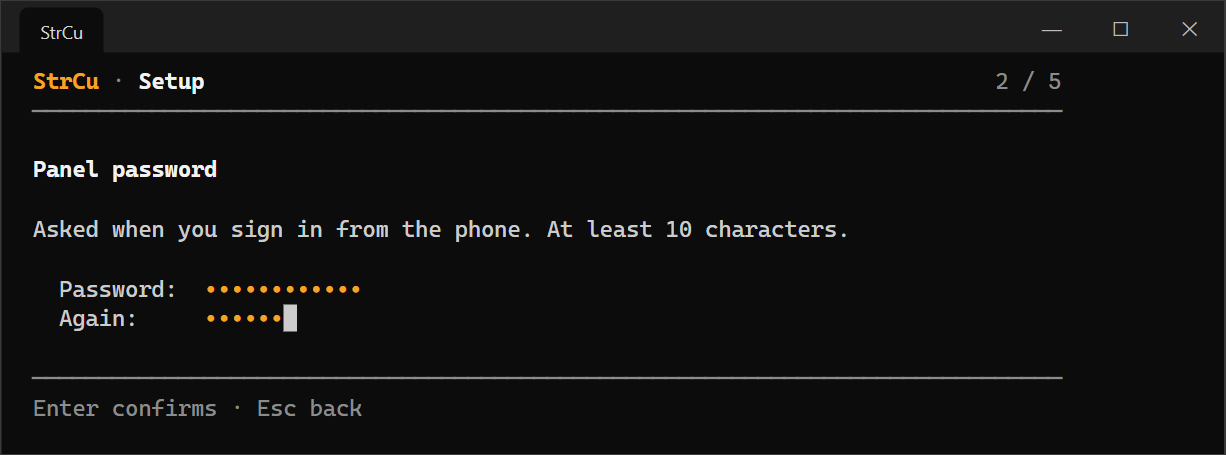
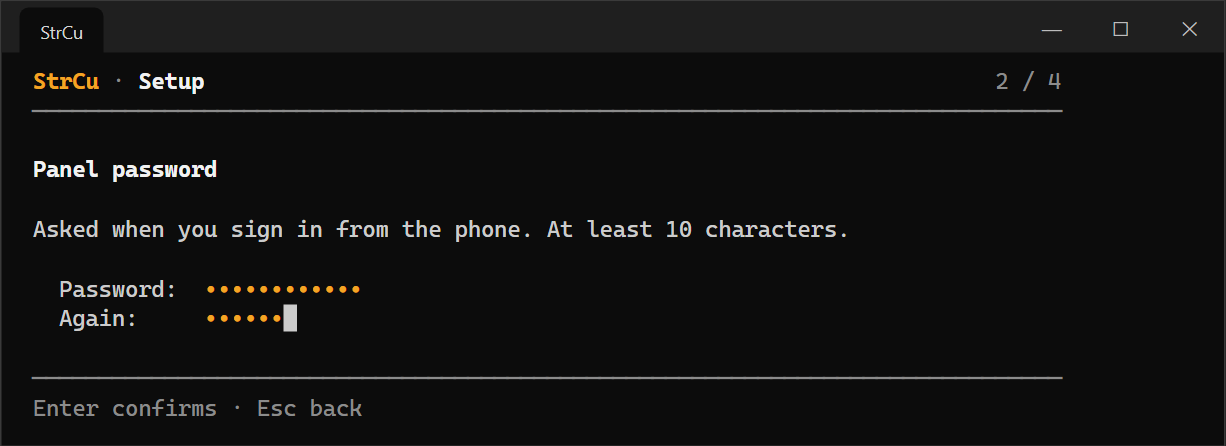
The README is about 2.0
Everything it said about what StrCu cannot do was written for a program running as a person, and the week's
measurements took three of those four away: the lock screen, the sign-in screen, the approval prompt and
administrator windows are all in reach now, so the list says what is really left - the computer has to be
running, Ctrl+Alt+Del stays Windows' own, a macro is still not started by a timer on a locked computer, and
what Windows hides from a screenshot is hidden from StrCu too.

The rest follows the same move: installing asks for administrator approval once and sets up a service, the
settings live in a folder only administrators may write to, the window is a window onto a StrCu that keeps
running without it, the setup is four steps because starting with Windows is no longer a question, and a
browser on this computer signs in like any other. The three parts StrCu runs itself are named for anyone
reading the command list, and the layout section points at them.

The two terminal pictures were taken again, which is also why the version is 2.0.0 now: a picture of the
window is a picture of its version line.

Claude-Session: https://claude.ai/code/session_018tcGSwZKhmtEGX6KRzm28q

diff --git a/src/macros/mod.rs b/src/macros/mod.rs
@@ -1,7 +1,7 @@
 //! Macros: steps that click, type and open things on this computer, started from the panel or on a schedule.
 //!
 //! They run inside StrCu, so a scheduled one runs while the phone is off; the panel only edits, starts and
-//! watches them. Kept in %LOCALAPPDATA%\strcu\macros.json.
+//! watches them. Kept in %ProgramData%\StrCu\macros.json.
 
 mod run;
 mod schedule;

diff --git a/README.md b/README.md
@@ -17,6 +17,10 @@ program, click there". It is a single exe that serves a web panel; the phone nee
   key), F1–F12; get the computer's clipboard text or put text on it.
 - **Know what you are about to click.** Windows' own accessibility data (UI Automation) names the element under
   the crosshair and lists everything clickable in the window. No AI, no GPU, no extra install.
+- **Nothing on the screen is out of reach.** The lock screen, the Windows sign-in screen, the "do you want to
+  allow this app" prompt and windows running as administrator come through like any other window, keyboard
+  included - so a computer that is locked, or that nobody has signed in to yet, is still yours from the phone.
+  Your own things - apps, files, the clipboard - are done as you, never as the computer.
 - **Windows and apps:** bring a window to the front, maximize or close it; open any app from the Start menu.
 - **Files:** download from Downloads, Desktop, Documents, Pictures and Videos, or the file selected in File
   Explorer; send files from the phone into Downloads.
@@ -29,16 +33,17 @@ program, click there". It is a single exe that serves a web panel; the phone nee
 
 ## Install
 
-In PowerShell (Windows 10 or 11, no administrator rights needed):
+In PowerShell (Windows 10 or 11). It asks for administrator approval once:
 
 ```
 irm https://github.com/sakirsek/strcu/releases/latest/download/install.ps1 | iex
 ```
 
-It downloads the latest release, checks its SHA-256 checksum, installs it to `%LOCALAPPDATA%\strcu`, adds
-StrCu to the Start menu and the desktop, and opens it for the first-start setup. Running the same line again
-updates StrCu (a running StrCu is closed and started again; settings stay). To remove StrCu with all its
-settings, shortcuts and its start with Windows:
+It downloads the latest release, checks its SHA-256 checksum, installs it to `%ProgramFiles%\StrCu`, sets it
+up as a Windows service, adds StrCu to the Start menu and the desktop, and opens the first-start setup. The
+settings live in `%ProgramData%\StrCu`, which only administrators may write to; an older StrCu's settings are
+copied over at the first start, so nothing has to be set up again. Running the same line again updates StrCu
+(settings stay). To remove StrCu with all its settings, shortcuts and its service:
 
 ```
 & ([scriptblock]::Create((irm https://github.com/sakirsek/strcu/releases/latest/download/install.ps1))) -Uninstall
@@ -51,7 +56,7 @@ are not marked as coming from the internet.
 
 ## First start
 
-<img src="docs/setup.png" alt="StrCu's first-start setup in the terminal, step 2 of 5: the panel password" width="560">
+<img src="docs/setup.png" alt="StrCu's first-start setup in the terminal, step 2 of 4: the panel password" width="560">
 
 StrCu opens in a terminal window. The first start is a short setup:
 
@@ -60,19 +65,23 @@ StrCu opens in a terminal window. The first start is a short setup:
 3. **Home network:** whether phones on your Wi-Fi may reach the panel. Windows then asks once whether StrCu may
    accept connections; with "Private networks" selected, choose Allow.
 4. **Remote access** through Cloudflare, optional and possible later ([below](#remote-access-optional)).
-5. **Start with Windows** (minimized).
+
+StrCu itself starts with Windows, before anyone signs in, and keeps running when you sign out. Nothing is
+asked about that, because the service is what StrCu is.
 
 <img src="docs/terminal.png" alt="StrCu's main screen: the addresses to open on the phone (home network, remote, this computer) and recent events such as a phone paired, sign-ins and a wrong password" width="640">
 
 After that the main screen shows where the phone can open the panel and the important events: sign-ins and
 failed attempts with where they came from, phones paired, fingerprints added, the computer locked, files sent or
 received, the clipboard read, the tunnel coming and going. **P** pairs a phone, **S** opens the settings
-(language, password, home network, remote access, start with Windows, paired phones and fingerprints, port),
-**L** shows the full log and **Q** quits.
+(language, password, home network, remote access, this install, paired phones and fingerprints, port),
+**L** shows the full log and **Q** closes the window.
 
-Only one StrCu runs at a time; starting it again brings the running one's window to the front. Closing the
-window stops the panel and the tunnel. While StrCu runs, the computer does not go to sleep (the display may
-still turn off). For a laptop that works with its lid closed, set Windows to do nothing when the lid is closed.
+The window is a window onto the StrCu that is running, not StrCu itself: closing it leaves the panel and the
+tunnel as they are, and opening it again shows the same StrCu. Settings → **This install** says how StrCu
+starts and where it keeps things; Settings → **Stop StrCu** stops it until the computer starts again. While
+StrCu runs, the computer does not go to sleep (the display may still turn off). For a laptop that works with
+its lid closed, set Windows to do nothing when the lid is closed.
 
 ## Connect a phone
 
@@ -95,6 +104,8 @@ Seven tabs: Screen, Keyboard, Elements, Windows, Files, Macros, More.
   live, red when it is paused or when the image in view lags.
 - **Screen:** a tap aims the crosshair; a bar with Click / Double / Right, ↑ / ↓ (scroll) and ✕ appears next to
   it. Below the image, a magnifier and the element's name. A typing box and eight common keys sit underneath.
+  When the lock screen, the sign-in screen or an approval prompt is in front, a line above the image says so,
+  with one key that wakes a screen that went dark and brings the PIN box up.
 - **Quick** (the switch under the image) skips the crosshair. A tap clicks, a quarter of a second later in case
   a second tap follows; two taps double-click. Hold a finger still for half a second: lifting it right-clicks,
   moving it drags with the left button held. If the phone loses its connection mid-drag, StrCu lets go of the
@@ -191,21 +202,24 @@ times on chosen days. Schedules use the computer's clock and run on the computer
 A scheduled start is skipped and logged when the computer is locked, someone is using it at that moment, or
 another macro is running or being recorded. A run stops as soon as someone uses the mouse or keyboard at the
 computer or uses the panel; a step that fails stops it too, and a screenshot of that moment is kept with the
-macro. Each macro lists its last runs. Macros are kept in `%LOCALAPPDATA%\strcu\macros.json`.
+macro. Each macro lists its last runs. Macros are kept in `%ProgramData%\StrCu\macros.json`.
 
 ### What it cannot do
 
-- Unlock the computer. A locked computer shows as locked; locking works, unlocking needs someone at the desk.
-- Click or type into windows that run as administrator (often Task Manager and installers): Windows does not
-  let a normal program do that. The same goes for the UAC prompt.
-- Run a macro while the computer is locked: Windows shows nothing to click until someone unlocks it.
+- Turn the computer on. It has to be running; StrCu can lock it or shut it down, not wake it from off.
+- Send Ctrl+Alt+Del. Windows keeps that key for the person at the keyboard, and StrCu does not change the
+  Windows settings that would let a program send it.
+- Run a macro while the computer is locked. It could, but a macro that types into a locked computer is not
+  something to start by a timer: a scheduled run is skipped and written to the log instead.
+- Show what Windows itself hides. Video with copy protection comes out black: the picture is taken the way
+  Windows hands the desktop over.
 
 ## Remote access (optional)
 
 From outside the home, the panel is reached through a Cloudflare Tunnel protected by Cloudflare Access. You need
-a Cloudflare account and a domain whose DNS is on Cloudflare; the tunnel and Access are free. No Windows service
-or administrator rights: StrCu runs cloudflared as its own child process, watches its connection, starts it
-again if it stops, and closes it with the panel.
+a Cloudflare account and a domain whose DNS is on Cloudflare; the tunnel and Access are free. cloudflared is
+StrCu's own child process: StrCu watches its connection, starts it again if it stops, and closes it with the
+panel. Nothing is installed for it.
 
 It is set up from the terminal (in the first-start setup, or Settings → Remote access), which walks through the
 Cloudflare dashboard and checks each step:
@@ -232,9 +246,10 @@ password (added under More, which asks for the password once).
 Every request is placed by where its connection really comes from (the socket's addresses and, for one from
 this computer, the program that opened it), not only by its headers.
 
-- **This computer:** a browser in the same Windows session gets in without signing in. A connection opened by
-  another Windows user signed in to the same computer is refused. Only `localhost` as the address: a site
-  that points its own name at 127.0.0.1 is treated as remote (DNS rebinding).
+- **This computer:** a browser here signs in with the panel password like any other, and gets an ordinary
+  session. StrCu runs with the rights of the computer, so a program on this computer that was let in without
+  signing in would be handed those rights. Only `localhost` as the address: a site that points its own name at
+  127.0.0.1 is treated as remote (DNS rebinding).
 - **Home network** (when turned on): private addresses (192.168.x, 10.x, 172.16-31.x) on a network Windows
   counts as *Private*. The address typed must be the computer's IP or its name. Sign-in with the panel password
   or a paired phone. The connection is plain HTTP, so anyone on the same Wi-Fi could read it; browsers offer no
@@ -269,9 +284,13 @@ strcu                             # the terminal app: setup on the first start, 
 strcu serve [--bind 127.0.0.1:8765] [--no-tunnel]   # no screens, status lines only (scripts, services)
 strcu passwd                      # panel password from the command line
 strcu tunnel install | token | setup --hostname <host> --email <email> | status
-strcu doctor                      # inspect the system, write %LOCALAPPDATA%\strcu\profile.json
+strcu doctor                      # inspect the system, write %ProgramData%\StrCu\profile.json
 strcu licenses                    # licenses of the third-party software built in
 ```
+
+`strcu service`, `strcu worker` and `strcu agent` are the three parts StrCu runs itself: Windows starts the
+service, the service starts a worker on the screen's session, and the worker starts an agent with the signed-in
+user's own rights. They are not meant to be started by hand.
 
 Developer tools drive the operating system layer directly (coordinates are physical pixels everywhere):
 
@@ -310,8 +329,11 @@ and placeholders as `lang/en.json`.
 
 ## Layout
 
+- `src/svc.rs` the Windows service, which keeps a worker running on the session that has the screen;
+  `src/agent.rs` the part that runs with the signed-in user's own rights, for their apps, files and clipboard;
+  `src/paths.rs` the settings folder and who may write there
 - `src/sys/` operating system layer (screen, input, windows, UI Automation, clipboard, File Explorer, power,
-  apps, icons, discovery, child processes)
+  apps, icons, discovery, child processes, the desktop in front)
 - `src/server/` + `src/web/` the panel: who gets in (`mod.rs`, `via.rs`, `signin.rs`), the page, and the
   endpoints by what they do (`control.rs`, `desktop.rs`, `transfer.rs`, `automation.rs`); `src/worker.rs` runs
   operating system work in order on one thread; `src/log.rs` the log of what was done
